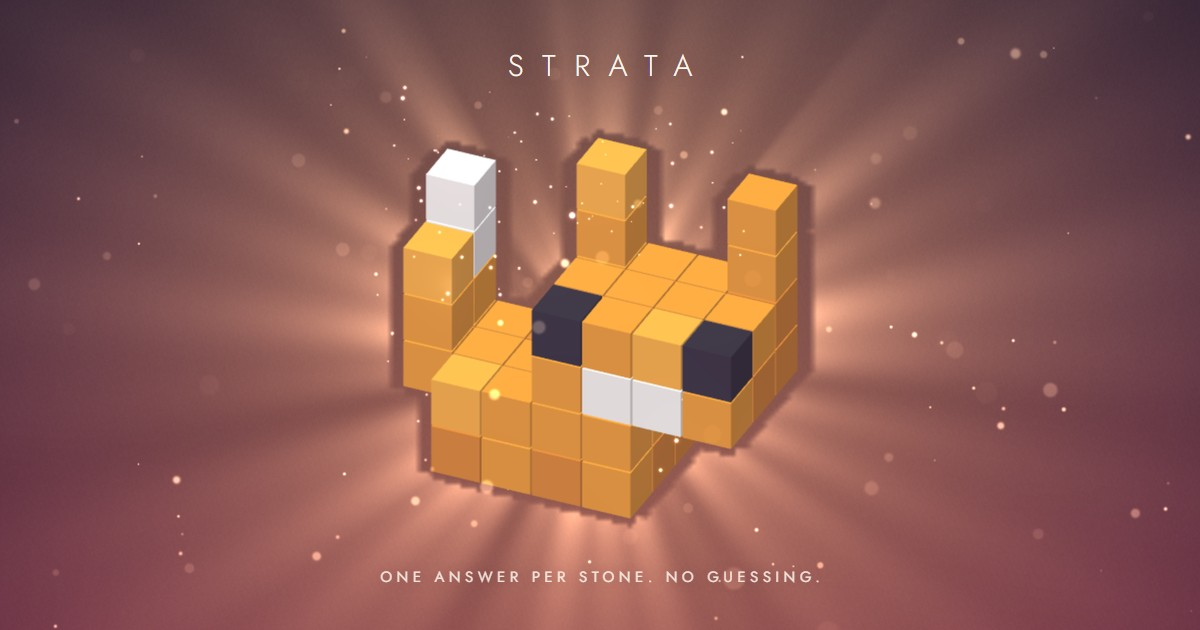
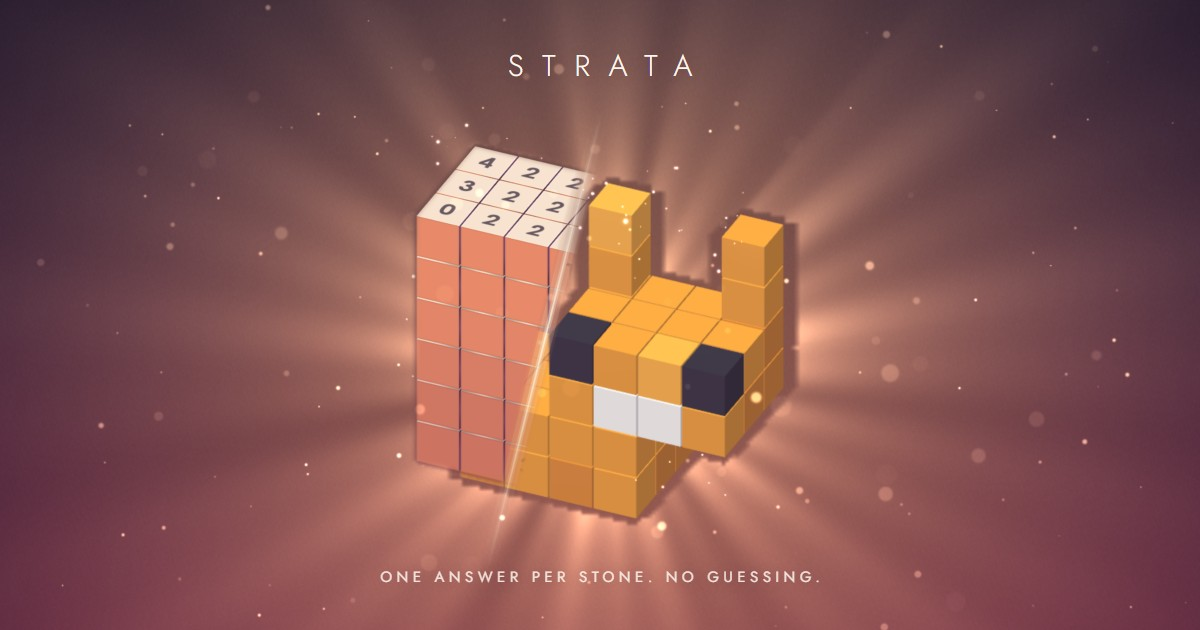
v1.1: the link preview keeps its before and after, inside one stone (Kellan, 2026-10-31)
The Origami Fox's untouched stone, clue numbers and all, gives way along a seam of light to the fox it held: one object in its own sky rather than two framed pictures, so it reads at a glance and survives a square crop. Both halves are the game's renders of the same stone at the same angle, aligned by projecting the stone's corners through each shot's camera and masked to the stone's outline. tools/make-og.mjs renders it end to end; og:image ?v=3, alt text rewritten.

Claude-Session: https://claude.ai/code/session_01RJB5cDdXvcLAwaz3VUAMoh

diff --git a/public/index.html b/public/index.html
@@ -20,10 +20,10 @@
   <meta property="og:url" content="https://kellanm.github.io/strata/">
   <meta property="og:title" content="Strata: chisel the stone, find what’s inside">
   <meta property="og:description" content="Read the numbers, chisel the stone, and a fox or a baby dragon is left standing. One answer per stone, no guessing. A new stone every day, in your browser.">
-  <meta property="og:image" content="https://kellanm.github.io/strata/og.jpg?v=2">
+  <meta property="og:image" content="https://kellanm.github.io/strata/og.jpg?v=3">
   <meta property="og:image:width" content="1200">
   <meta property="og:image:height" content="630">
-  <meta property="og:image:alt" content="An origami fox made of orange cubes, just revealed from its stone, in warm light.">
+  <meta property="og:image:alt" content="A stone of numbered cubes giving way, along a seam of light, to the origami fox it held.">
   <meta name="twitter:card" content="summary_large_image">
   <link rel="icon" href="icons/favicon-64.png" type="image/png">
   <!-- The studio's card: painted before anything else loads (so its style is

diff --git a/docs/og-study.md b/docs/og-study.md
@@ -241,3 +241,13 @@ It is the truthful "puzzle" state. Use a fox-shaped (or "kept cubes") view state
 **Result:** one hero in the game's own light and sky, the STRATA wordmark (Jost 300, standing in for Avenir Next), and "One answer per stone. No guessing." Everything sits inside the centre square, x 320–880, and the fox reads at 240 px wide. The image URL is versioned `?v=2`, because chat apps cache previews.
 
 **Limits:** not yet checked in live iMessage, WhatsApp or Discord unfurls. That's only possible once v1.1 is merged and deployed.
+
+## Revision: the before and after, inside one stone (2026-10-31)
+
+Kellan wanted the before and after kept, so people know what the game does, but styled to be more interesting. Two side-by-side pictures are the template look the exemplars avoid, and a centre-square crop cuts both. So the comparison now happens inside one object:
+- **The layout:** the Origami Fox's untouched stone, with its clue numbers, fills the left of the frame and gives way along a thin diagonal seam of light to the revealed fox on the right.
+- **How it's made:** both halves are the game's own renders of the same stone. The stone is scaled onto the reveal's framing by projecting its eight corners through each shot's camera; the reveal sits at exactly 0.6 of the stone's on-screen size. It is masked to its own outline, so the sky is one continuous sky.
+- **Tuning:** the cut sits 15% of the stone's width left of centre and is tilted 14°, so both of the fox's eyes show.
+- **Cost:** the stone hides the fox's left ear.
+
+The URL is versioned `?v=3`.
